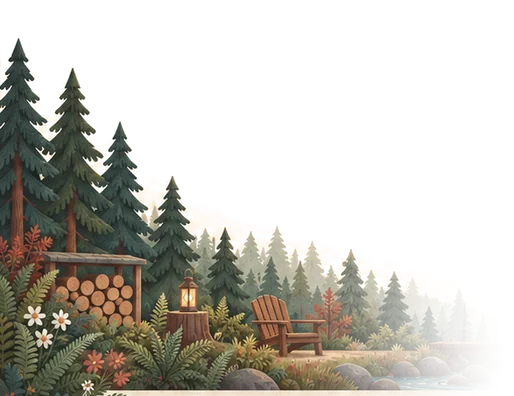
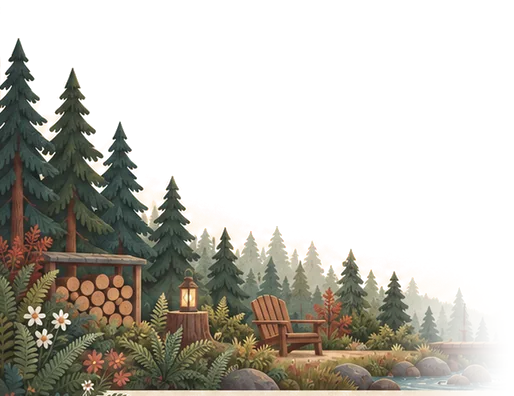
feat(place): scene tall at both sides, dipping low under the content
Each place's two halves stand in the bottom corners at the small, shared
scale, and a strip of that scene's own low ground (stream and rocks, wheat,
grass and flowers, river, sidewalk), mirrored to tile seamlessly, runs
between them — one continuous landscape that dips in the middle where the
page's content sits.

Claude-Session: https://claude.ai/code/session_011RiL2gSgWwop5b5xZcRGxV

Changed region(s): [[0.5914, 0.6364, 0.9339, 1.0]]

diff --git a/src/components/place/PlaceScenery.tsx b/src/components/place/PlaceScenery.tsx
@@ -5,20 +5,25 @@ import { usePlaceOrDefault } from '@/hooks/usePlace'
 import { attachSceneryVeil } from './sceneryVeil'
 import urbanLeft from '@/assets/scenery/urban-left.webp'
 import urbanRight from '@/assets/scenery/urban-right.webp'
+import urbanGround from '@/assets/scenery/urban-ground.webp'
 import smallCityLeft from '@/assets/scenery/small-city-left.webp'
 import smallCityRight from '@/assets/scenery/small-city-right.webp'
+import smallCityGround from '@/assets/scenery/small-city-ground.webp'
 import mountainTownLeft from '@/assets/scenery/mountain-town-left.webp'
 import mountainTownRight from '@/assets/scenery/mountain-town-right.webp'
+import mountainTownGround from '@/assets/scenery/mountain-town-ground.webp'
 import cabinLeft from '@/assets/scenery/cabin-left.webp'
 import cabinRight from '@/assets/scenery/cabin-right.webp'
+import cabinGround from '@/assets/scenery/cabin-ground.webp'
 import farmLeft from '@/assets/scenery/farm-left.webp'
 import farmRight from '@/assets/scenery/farm-right.webp'
+import farmGround from '@/assets/scenery/farm-ground.webp'
 
 /**
- * "Your place" behind the page: the place's illustrated scene standing in the
- * two bottom corners of the window, the centre left clear (Scott, 2026-09-30 —
- * the scene should stay recognisable while every pixel of the page goes to
- * the work).
+ * "Your place" behind the page: the place's illustrated scene along the
+ * bottom of the window, taller at both sides and dipping in the middle where
+ * the page's content is (Scott, 2026-09-30 / 2026-10-01 — the scene should
+ * stay recognisable while every pixel of the page goes to the work).
  *
  * The art is decoration only. It is fixed behind the page scroller, takes no
  * layout space (no band, no spacer), is aria-hidden and never takes a pointer.
@@ -32,17 +37,18 @@ import farmRight from '@/assets/scenery/farm-right.webp'
  * the page keep their z-index against the whole app.
  */
 
-// Each place's two corners, cut from the approved theme concepts
-// (scripts/scenery/extract.py). `height` is the source height in px; both
-// halves share it and are 514px wide, so one scale keeps the ground lines
-// level between the corners. Each corner shows the lower part of its half;
-// anything taller fades out (index.css, .place-scenery-corner).
-const SCENERY: Record<PlaceId, { left: string; right: string; height: number }> = {
-  urban: { left: urbanLeft, right: urbanRight, height: 470 },
-  'small-city': { left: smallCityLeft, right: smallCityRight, height: 402 },
-  'mountain-town': { left: mountainTownLeft, right: mountainTownRight, height: 340 },
-  cabin: { left: cabinLeft, right: cabinRight, height: 396 },
-  farm: { left: farmLeft, right: farmRight, height: 358 },
+// Each place's scene, cut from the approved theme concepts
+// (scripts/scenery/extract.py): two halves, each 514 source px wide and
+// `height` tall, that stand in the bottom corners at one shared scale so
+// their ground lines meet the same level; and a strip of the scene's own
+// low ground (`groundHeight` source px tall), mirrored to tile, run across
+// the middle between them.
+const SCENERY: Record<PlaceId, { left: string; right: string; ground: string; height: number; groundHeight: number }> = {
+  urban: { left: urbanLeft, right: urbanRight, ground: urbanGround, height: 470, groundHeight: 26 },
+  'small-city': { left: smallCityLeft, right: smallCityRight, ground: smallCityGround, height: 402, groundHeight: 50 },
+  'mountain-town': { left: mountainTownLeft, right: mountainTownRight, ground: mountainTownGround, height: 340, groundHeight: 38 },
+  cabin: { left: cabinLeft, right: cabinRight, ground: cabinGround, height: 396, groundHeight: 54 },
+  farm: { left: farmLeft, right: farmRight, ground: farmGround, height: 358, groundHeight: 54 },
 }
 
 function prefersReducedMotion(): boolean {
@@ -83,11 +89,14 @@ export function PlaceScenery({ scroller, right = 0, floor }: {
     right,
     ...(floor ? { '--scenery-floor': floor } : {}),
     '--scenery-rise': art.height,
+    '--scenery-ground': `url(${art.ground})`,
+    '--scenery-ground-rise': art.groundHeight,
   } as CSSProperties
 
   return (
     <div ref={ref} aria-hidden="true" className="place-scenery" data-place-scenery={place} style={style}>
       <div className="place-scenery-ground">
+        <div className="place-scenery-strip" />
         <div className="place-scenery-corner is-left">
           <img className="place-scenery-art" src={art.left} alt="" decoding="async" draggable={false} />
         </div>

diff --git a/src/index.css b/src/index.css
@@ -2755,7 +2755,8 @@ div.chooser-action-group { overflow: visible !important; }
   box-shadow: none;
 }
 /* Your place BEHIND the page (PlaceScenery.tsx, Scott 2026-09-30): the scene
-   stands in the two bottom corners of the window, the centre clear, and takes
+   runs along the bottom of the window, tall at the sides and dipping low in
+   the middle under the page's content, and takes
    no layout space — the page gets the whole viewport. A paper veil over the
    art thickens over the first 150px of scroll (--scenery-progress, written by
    sceneryVeil.ts), so the place shows in unused space at the top of the page
@@ -2764,10 +2765,11 @@ div.chooser-action-group { overflow: visible !important; }
   position: fixed; top: 0; bottom: 0; left: 0; /* right: the side pane, inline */
   overflow: hidden; pointer-events: none; user-select: none;
   container-type: inline-size;
-  /* How tall each corner stands — small and low, a vignette rather than a
-     backdrop (Scott, 2026-10-01: "smaller, like the left side" of the
-     reference). */
-  --scenery-height: min(20vh, 190px);
+  /* The tallest the scene may stand at its sides; the middle stays low. */
+  --scenery-height: min(30vh, 270px);
+  /* px per source px: the scene drawn small, or smaller still when the two
+     halves (514 source px each) would not fit side by side. */
+  --scenery-unit: min(0.72px, calc(50cqw / 514));
   /* What it stands on: the desktop footer, or the phone's tab bar (inline). */
   --scenery-floor: 60px;
   /* Paper over the art at the top of the page, and once scrolled. */
@@ -2779,20 +2781,24 @@ div.chooser-action-group { overflow: visible !important; }
    its own text off the art, so the scene may show fully where the page is
    empty. Every other page gets the quiet scene above. */
 html.has-place-paper .place-scenery { --scenery-rest: 0; }
-.place-scenery-ground { position: absolute; left: 0; right: 0; bottom: var(--scenery-floor); }
-/* Each corner is a wide, low window onto its half of the scene: shown at one
-   scale (so the two ground lines stay level), cut to the corner's height,
-   with whatever rises above it — the tallest trees and towers — fading into
-   the sky rather than shrinking the whole scene to fit. Each half is 514
-   source px wide; on a narrow screen the scale drops until both fit. */
+/* Taller at both sides, dipping in the middle (Scott, 2026-10-01): each half
+   of the scene stands in its corner, and between them runs a low strip of
+   the scene's own ground, so the art under the page's content is only ever
+   that strip. */
+.place-scenery-ground { position: absolute; left: 0; right: 0; bottom: var(--scenery-floor); height: var(--scenery-height); }
+.place-scenery-strip {
+  position: absolute; left: 0; right: 0; bottom: 0;
+  height: calc(var(--scenery-ground-rise) * var(--scenery-unit));
+  background: var(--scenery-ground) center bottom / auto 100% repeat-x;
+}
 .place-scenery-corner {
-  --scenery-unit: min(0.72px, calc(50cqw / 514));
   position: absolute; bottom: 0;
   width: calc(514 * var(--scenery-unit));
   height: min(var(--scenery-height), calc(var(--scenery-rise) * var(--scenery-unit)));
   overflow: hidden;
-  -webkit-mask-image: linear-gradient(to bottom, transparent, #000 40%);
-  mask-image: linear-gradient(to bottom, transparent, #000 40%);
+  /* Anything taller than the corner fades into the sky, not a hard edge. */
+  -webkit-mask-image: linear-gradient(to bottom, transparent, #000 18%);
+  mask-image: linear-gradient(to bottom, transparent, #000 18%);
 }
 .place-scenery-corner.is-left { left: 0; }
 .place-scenery-corner.is-right { right: 0; }
@@ -2809,7 +2815,7 @@ html.has-place-paper .place-scenery { --scenery-rest: 0; }
 /* Short windows and phones: smaller art and more paper from the start, so
    the page reads without scrolling first. */
 @media (max-height: 720px) {
-  .place-scenery { --scenery-height: 17vh; }
+  .place-scenery { --scenery-height: 24vh; }
   html.has-place-paper .place-scenery { --scenery-rest: 0.25; }
 }
 @media (max-width: 767px) {

diff --git a/src/components/place/PlaceScenery.test.tsx b/src/components/place/PlaceScenery.test.tsx
@@ -30,7 +30,7 @@ describe('PlaceScenery', () => {
     expect(scenery).toHaveAttribute('aria-hidden', 'true')
     expect(scenery.textContent).toBe('')
     expect(scenery.querySelectorAll('button, a, input, [tabindex]')).toHaveLength(0)
-    // Both corners draw, as images with empty alt text.
+    // Both sides draw, as images with empty alt text.
     const art = scenery.querySelectorAll('img')
     expect(art).toHaveLength(2)
     art.forEach((img) => expect(img).toHaveAttribute('alt', ''))

diff --git a/scripts/scenery/extract.py b/scripts/scenery/extract.py
@@ -3,8 +3,13 @@
 Each concept is a full-page mockup with UI text baked in. The illustration
 is taken only from regions the UI never touched: below the task column,
 beside the right column, and above the footer line. The paper-coloured sky
-is keyed to transparency so the art sits on any page tint, and each half
-fades out on its inner edge so the centre stays clear.
+is keyed to transparency so the art sits on any page tint.
+
+Each place yields three images: its left and right halves (tall at the outer
+edges, fading out toward the middle), and a strip of its lowest ground from
+the middle of the scene, mirrored so it tiles without a seam. The app stands
+the halves in the two bottom corners and runs the ground between them, so
+the scene dips low under the page's content.
 
 Usage (needs Pillow + numpy):
     python scripts/scenery/extract.py <concepts-dir> src/assets/scenery
@@ -64,37 +69,62 @@ def key_paper(rgb):
     return np.clip(color, 0, 255), a
 
 
-def inner_fade(w, side, start=0.52):
+
+def inner_fade(w, side, start=0.72):
     x = np.linspace(0, 1, w)
-    if side == 'left':
-        t = np.clip((x - start) / (1 - start), 0, 1)
-    else:
-        t = np.clip(((1 - x) - start) / (1 - start), 0, 1)
+    t = np.clip(((x if side == 'left' else 1 - x) - start) / (1 - start), 0, 1)
     return 1 - t * t * (3 - 2 * t)
 
 
-meta = {}
+# A stretch of each scene's lowest ground (canvas coords) that repeats without
+# drawing the eye — no benches, planters or barns to be seen twice: stream
+# and rocks, wheat, grass and flowers, river water, sidewalk.
+GROUND = {
+    'cabin': (400, 812, 640, Y_BOTTOM),
+    'farm': (640, 812, 780, Y_BOTTOM),
+    'mountain-town': (800, 828, 960, Y_BOTTOM),
+    'small-city': (560, 816, 660, Y_BOTTOM),
+    'urban': (140, 840, 400, Y_BOTTOM),
+}
+
+
+def ground_tile(theme):
+    a, b, c, d = GROUND[theme]
+    im = Image.open(SRC / f'{theme}.png').convert('RGB').crop((a, b, c, d))
+    color, alpha = key_paper(np.array(im, dtype=np.float32))
+    color = calm(color)
+    h = alpha.shape[0]
+    y = np.linspace(0, 1, h)[:, None]
+    t = np.clip(y / 0.45, 0, 1)
+    alpha = alpha * (t * t * (3 - 2 * t))  # soft top edge
+    rgba = np.dstack([color, alpha * 255]).astype(np.uint8)
+    tile = np.concatenate([rgba, rgba[:, ::-1]], axis=1)  # mirrored: seamless repeat
+    Image.fromarray(tile, 'RGBA').save(OUT / f'{theme}-ground.webp', 'WEBP', quality=84, method=6, exact=False)
+    return tile.shape
+
+
+def calm(color):
+    """Less saturation, lifted a touch toward the paper."""
+    lum = (color * np.array([0.299, 0.587, 0.114])).sum(axis=2, keepdims=True)
+    color = lum + (color - lum) * 0.86
+    return color * 0.94 + PAPER * 0.06
+
+
 for theme in ['urban', 'small-city', 'mountain-town', 'cabin', 'farm']:
     im = Image.open(SRC / f'{theme}.png').convert('RGB').crop((X0, Y_TOP, X1, Y_BOTTOM))
     rgb = np.array(im, dtype=np.float32)
     color, alpha = key_paper(rgb)
     alpha = alpha * ui_mask(im.width, im.height)
-    # Calm it a touch: less saturation, lifted toward the paper.
-    lum = (color * np.array([0.299, 0.587, 0.114])).sum(axis=2, keepdims=True)
-    color = lum + (color - lum) * 0.86
-    color = color * 0.94 + PAPER * 0.06
+    color = calm(color)
 
-    # Trim empty sky rows off the top (shared by both halves).
+    # Trim empty sky rows off the top.
     rows = np.where(alpha.max(axis=1) > 0.04)[0]
     top = int(rows[0]) if len(rows) else 0
     color, alpha = color[top:], alpha[top:]
     h, w = alpha.shape
     half = w // 2
-    meta[theme] = {'height': h, 'halfWidth': half, 'top': Y_TOP + top}
     for side, sl in (('left', slice(0, half)), ('right', slice(w - half, w))):
         a = alpha[:, sl] * inner_fade(half, side)[None, :]
         rgba = np.dstack([color[:, sl], a * 255]).astype(np.uint8)
-        img = Image.fromarray(rgba, 'RGBA')
-        img.save(OUT / f'{theme}-{side}.webp', 'WEBP', quality=84, method=6, exact=False)
-    print(theme, meta[theme])
-
+        Image.fromarray(rgba, 'RGBA').save(OUT / f'{theme}-{side}.webp', 'WEBP', quality=84, method=6, exact=False)
+    print(theme, {'height': h, 'halfWidth': half, 'ground': ground_tile(theme)[:2]})
